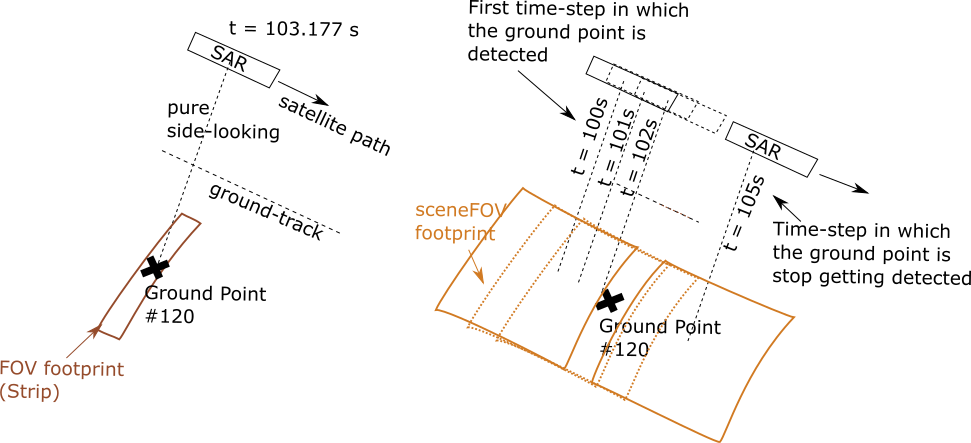
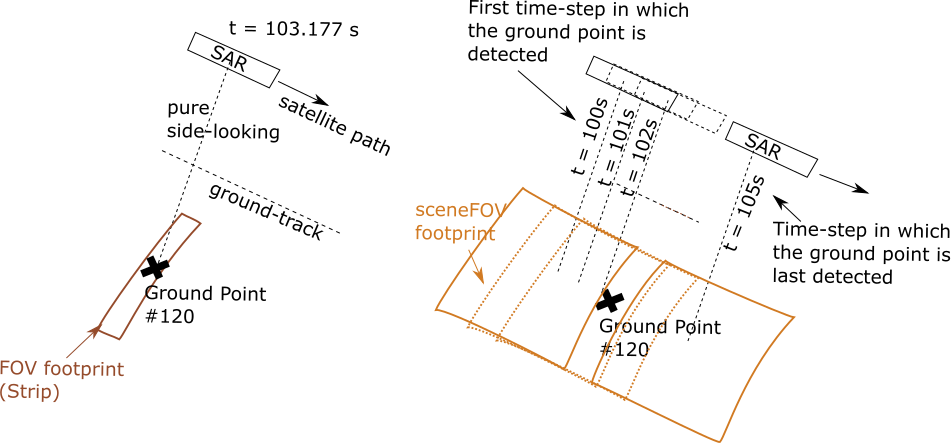
update docs

diff --git a/orbitpy/coveragecalculator.py b/orbitpy/coveragecalculator.py
@@ -92,7 +92,7 @@ def helper_extract_coverage_parameters_of_spacecraft(spc):
     :return: Tuples with instrument-id, mode-id, scene-field-of-view, field-of-regard and pointing_option(s).
     :rtype: list, namedtuple, (str or int, str or int, :class:`instrupy.util.ViewGeometry`, <list,:class:`instrupy.util.ViewGeometry`>, <list,:class:`instrupy.util.Orientation`>)
 
-    .. note::  The field-of-regard parameter and pointing_option parameter is a list in the tuple. 
+    .. note::  The field-of-regard parameter and pointing_option parameter are lists in the tuple. 
 
     """
     _p = namedtuple("spc_cov_params", ["instru_id", "mode_id", "scene_field_of_view", "field_of_regard", "pointing_option"])
@@ -102,7 +102,7 @@ def helper_extract_coverage_parameters_of_spacecraft(spc):
         for instru in spc.instrument: # iterate over each instrument
             instru_id = instru.get_id()
 
-            for mode_id in instru.get_mode_id():# iterate over each mode in the instrument
+            for mode_id in instru.get_mode_id(): # iterate over each mode in the instrument
 
                 scene_field_of_view  = instru.get_scene_field_of_view(mode_id)
                 field_of_regard  = instru.get_field_of_regard(mode_id) 
@@ -116,7 +116,7 @@ def helper_extract_coverage_parameters_of_spacecraft(spc):
     return params
 
 def find_in_cov_params_list(cov_param_list, instru_id=None, mode_id=None):
-    """ For an input instrument-id, mode-id, find the corresponding FOV, FOR and pointing_option(s) in an input list of coverage-parameters 
+    """ For an input instrument-id, mode-id, find the corresponding coverage-parameter in an input list of coverage-parameters 
         (list of tuples of (instru_id, mode_id, field-of-view, field-of-regard, pointing_option)). 
 
     :param cov_param_list: List of tuples of (instrument id, mode id, field-of-view, field-of-regard, pointing_option).
@@ -125,7 +125,7 @@ def find_in_cov_params_list(cov_param_list, instru_id=None, mode_id=None):
     :param instru_id: Instrument identifier. If ``None``, the first tuple in the list of coverage parameters is returned.
     :paramtype instru_id: str (or) int
 
-    :param mode_id: Mode identifier. If ``None``, the first tuple in the list of the instance ``access_file_info`` attribute with the matching instru_id is returned.
+    :param mode_id: Mode identifier. If ``None``, the first tuple in the list of coverage parameters with the matching instru_id is returned.
     :paramtype mode_id: str (or) int
 
     :return: (Single) Tuple of (instrument id, mode id, field-of-view, field-of-regard, pointing-option(s)), such that the instrument-id and 
@@ -151,38 +151,27 @@ def find_in_cov_params_list(cov_param_list, instru_id=None, mode_id=None):
 def filter_mid_interval_access(inp_acc_df=None, inp_acc_fl=None, out_acc_fl=None):
         """ Extract the access times at middle of access intervals. The input can be a path to a file or a dataframe. 
 
-        This function can be used for "correction" of access files for purely side-looking instruments with narrow (along-track) FOV described below:
+        This function can be used for "correction" of access files for purely side-looking instruments with narrow along-track FOV as described below:
 
         In case of purely side-looking instruments with narrow-FOV (eg: SARs executing Stripmap operation mode), the access to a grid-point takes place
-        when the grid-point is seen with no squint angle and the access is relatively instantaneous (i.e. access duration is very small). 
-        The field-of-regard coverage calculations are carried out with the corresponding *sceneFOV* (see :code:`instrupy` package documentation). 
+        when the grid-point is seen with no squint angle and the access is almost instantaneous (i.e. access duration is very small). 
+        The coverage calculations is carried out with the corresponding instrument scene-field-of-view or field-of-regard (built using the scene-filed-of-view) 
+        (see :code:`instrupy` package documentation). 
+        If the instrument FOV is to be used for coverage calculations, a *very very* small time step-size would need to be used which to impractically long computation time.
 
         The access files list rows of access-time, ground-points, and thus independent access opportunities for the instrument
-        when the field-of-regard is used for coverage calculations. 
-        If the generated access files from the field-of-regard coverage calculations (using sceneFOV) of purely side-looking, narrow-FOV instruments are
+        when the scene-field-of-view / field-of-regard is used for coverage calculations. 
+        If the generated access files from the these coverage calculations of a purely side-looking, narrow along-track FOV instrument is
         interpreted in the same manner, it would be erroneous.
 
         Thus the generated access files are then *corrected* to show access only at approximately (to the nearest propagation time-step) 
         the middle of the access interval. 
-        This should be coupled with the required scene-scan-duration (from sceneFOV) to get complete information about the access. 
+        This should be coupled with the required scene-scan-duration (from scene-field-of-view) to get complete information about the access. 
 
-        For example, consider a SAR instrument pointing sideways as shown in the figure below. The along-track FOV is narrow
-        corresponding to narrow strips, and a scene is built from concatenated strips. A SceneFOV is associated with the SAR and is used for access 
-        calculation over the grid point shown in the figure. Say the propagation time-step is 1s as shown in the figure. An access interval between
-        t=100s to t=105s is registered. However as shown the actual access takes place over a small interval of time at t=103.177s. 
+        .. warning:: The correction method is to be used only when the instrument access-duration (determined from the instrument FOV) is smaller 
+                     than the propagation time step (determined from the sceneFOV). 
 
-        An approximation can be applied (i.e. correction is made) that the observation time of the ground point is at the middle of the access
-        interval rounded of to the nearest propagation time as calculated using the SceneFOV, i.e. :math:`t= 100 + ((105-100)/2) % 1 = 103s`. The state 
-        of the spacecraft at :math:`t=103s` and access duration corresponding to the instrument FOV (note: *not* the sceneFOV) (can be determined analytically) 
-        is to be used for the data-metrics calculation.
-
-        .. figure:: sar_access.png
-            :scale: 75 %
-            :align: center
-
-        .. warning:: The correction method is to be used only when the instrument access-duration is smaller than the propagation time step (which is determined from sceneFOV). 
-
-        :ivar inp_acc_df: Dataframe with the access data which needs to be filtered. The rows correspond to pair of 
+        :ivar inp_acc_df: Dataframe with the access data which needs to be filtered. The rows correspond to pairs of 
                           access time and corresponding ground-point index. The columns are to be named as: ``time index``, ``GP index``, ``lat [deg]``, ``lon [deg]``.
                           If ``None``, the ``inp_acc_fl`` input argument must be specified.
         :vartype inp_acc_df: pd.DataFrame or None
@@ -198,7 +187,6 @@ def filter_mid_interval_access(inp_acc_df=None, inp_acc_fl=None, out_acc_fl=None
         :rtype: pd.DataFrame
 
         """
-        print("start correction")
         if inp_acc_fl: # If input file is specified, the data is taken from it. 
             df = pd.read_csv(inp_acc_fl, skiprows=4)            
         else:

diff --git a/docs/orbitpy.coveragecalculator_module.rst b/docs/orbitpy.coveragecalculator_module.rst
@@ -4,12 +4,12 @@
 Description
 ^^^^^^^^^^^^^
 
-Module providing classes and functions to handle coverage related calculations. Factory method pattern is used for initializing the coverage Calculator 
+Module providing classes and functions to handle coverage related calculations. Factory method pattern is used for initializing the coverage calculator 
 object (please see :ref:`constellation_module` for details). The module provides for three types of coverage calculations which are described in detail below.
 Users may additionally define their own coverage calculator classes adherent to the same interface functions 
 (``from_dict(.)``, ``to_dict(.)``, ``execute(.)``, ``__eq__(.)``) as in any of the built in coverage calculator classes.
 
-.. grid_cov_desc::
+.. _grid_cov_desc:
 
 *GRID COVERAGE* 
 ----------------
@@ -22,18 +22,19 @@ The format of the input data file of the spacecraft states is the same as the fo
 ``GridCoverage.execute`` function
 ..................................
 
-The coverage calculation can be executed using the ``execute(.)`` function. The instrument and the mode of the instrument (in the spacecraft) can be specified 
+The coverage calculation can be executed using the ``execute(.)`` function. The instrument (in the spacecraft) and the mode of the instrument can be specified 
 by means of their respective identifiers (in the ``instru_id``, ``mode_id`` input arguments). If not specified, the first instrument in the list of spacecraft's instruments, the first mode of the instrument (see the docs of :class:`instrupy.base.Instrument`)
 in the list of modes of the instrument shall be selected. 
 
 Coverage is calculated for the period over which the input spacecraft propagated states are available. The time-resolution of the coverage calculation is the same as the time resolution at which the spacecraft states are available.
 Note that the sceneFOV of an instrument (which may be the same as the instrument FOV) is used for coverage calculations unless it has been specified to use the field-of-regard (using the ``use_field_of_regard`` input argument).
 
-The ``filter_mid_acc`` input argument can be used to specify if the access times only at the middle of an continuous access-interval. Finally the ``out_file_access`` input argument is 
-used to specify the filepath (with filename) at which the results are to be written.
+The ``filter_mid_acc`` input argument can be used to specify if the access times only at the middle of an continuous access-interval. 
 E.g. If the access takes place at time-indices 450, 451, 452, 453, 454, and if the ``filter_mid_acc`` flag is specified to be true, then only the access time-index = 452 is written
 in the results.
 
+Finally the ``out_file_access`` input argument is 
+used to specify the filepath (with filename) at which the results are to be written.
 A ``CoverageOutputInfo`` object containing meta-info about the results is returned at the end of execution of the function.
 
 Output data file format
@@ -43,13 +44,13 @@ The output of executing the coverage calculator is a csv data file containing th
 
 *  The first row contains the coverage calculation type.
 *  The second row containing the mission epoch in Julian Day UT1. The time (index) in the state data is referenced to this epoch.
-*  The third row contains the time-step size in seconds. 
+*  The third row contains the time step-size in seconds. 
 *  The fourth row contains the mission duration in days.
 *  The fifth row contains the columns headers and the sixth row onwards contains the corresponding data. 
 
 Note that time associated with a row is:  ``time = epoch (in JDUT1) + time-index * time-step-size (in secs) * (1/86400)`` 
 
-Description of the coverage data is given below:
+Description of the columns headers and data is given below:
 
 .. csv-table:: Coverage data description
       :header: Column, Data type, Units, Description
@@ -60,13 +61,13 @@ Description of the coverage data is given below:
       lat [deg], float, degrees, Latitude corresponding to the GP index.
       lon [deg], float, degrees, Longitude corresponding to the GP index.
 
-.. pointing_opt_cov_desc::
+.. _pointing_opt_cov_desc:
 
 *POINTING OPTIONS COVERAGE*
 ----------------------------
 
 This type of coverage calculations is possible for an instrument (on a spacecraft) with a set of pointing-options.
-A pointing-option refers to orientation of the instrument in the NADIR_POINTING frame. The set of pointing-options 
+A pointing-option refers to orientation of the instrument in the nadir-pointing frame. The set of pointing-options 
 represent all the possible orientations of the instrument due to maneuverability of the instrument and/or satellite-bus.
 The ground-locations for each pointing-option, at each propagation time-step is calculated as the coverage result.
 
@@ -95,7 +96,7 @@ The output of executing the coverage calculator is a csv data file containing th
 
 Note that time associated with a row is:  ``time = epoch (in JDUT1) + time-index * time-step-size (in secs) * (1/86400)`` 
 
-Description of the coverage data is given below:
+Description of the columns headers and data is given below:
 
 .. csv-table:: Coverage data description
       :header: Column, Data type, Units, Description
@@ -116,7 +117,8 @@ This type of coverage calculations is similar to the :ref:`grid_cov_desc`, excep
 ``PointingOptionsWithGridCoverage.execute`` function
 .......................................................
 
-The function behavior is similar to the ``execute`` function of the ``GridCoverage`` object. Coverage calculations are performed for a specific instrument and mode. 
+The function behavior is similar to the ``execute`` function of the ``GridCoverage`` object. Coverage calculations are performed for a specific instrument and mode,
+and the results are written out for separately for each pointing-option of the instrument/mode. 
 A key difference is that only the scene-field-of-view of the instrument is considered (no scope to use field-of-regard) in the coverage calculation. 
 
 Output data file format
@@ -132,7 +134,7 @@ The output of executing the coverage calculator is a csv data file containing th
 
 Note that time associated with a row is:  ``time = epoch (in JDUT1) + time-index * time-step-size (in secs) * (1/86400)`` 
 
-Description of the coverage data is given below:
+Description of the columns headers and data is given below:
 
 .. csv-table:: Coverage data description
       :header: Column, Data type, Units, Description
@@ -144,26 +146,50 @@ Description of the coverage data is given below:
       lat [deg], float, degrees, Latitude corresponding to the GP index.
       lon [deg], float, degrees, Longitude corresponding to the GP index.
 
-Helper functions
--------------------
+      
+*Correction* of access files for purely side-looking instruments with narrow along-track FOV
+-----------------------------------------------------------------------------------------------
 
-``helper_extract_coverage_parameters_of_spacecraft``
-.......................................................
+In case of purely side-looking instruments with narrow-FOV (eg: SARs executing Stripmap operation mode), the access to a grid-point takes place
+when the grid-point is seen with no squint angle and the access is almost instantaneous (i.e. access duration is very small). 
+The coverage calculations is carried out with the corresponding instrument scene-field-of-view or field-of-regard (built using the scene-field-of-view) 
+(see :code:`instrupy` package documentation). 
+If the instrument FOV is to be used for coverage calculations, a *very very* small time step-size would need to be used which to impractically leads to long computation time.
 
-``find_in_cov_params_list``
-.............................
+The access files in general list rows of access-time, ground-points, and thus independent access opportunities for the instrument
+when the scene-field-of-view / field-of-regard is used for coverage calculations. 
+If the generated access files from the these coverage calculations of a purely side-looking, narrow along-track FOV instrument is
+interpreted in the same manner, it would be erroneous.
 
-``filter_mid_interval_access``
-.................................
+Thus the generated access files are then *corrected* to show access only at approximately (to the nearest propagation time-step) 
+the middle of the access interval. 
+This should be coupled with the required scene-scan-duration (from scene-field-of-view) to get complete information about the access. 
+
+For example, consider a SAR instrument pointing sideways as shown in the figure below. The along-track FOV is narrow
+corresponding to narrow strips, and a scene is built from concatenated strips. A SceneFOV is associated with the SAR and is used for access 
+calculation over the grid point shown in the figure. Say the propagation time-step is 1s as shown in the figure. An access interval between
+t=100s to t=105s is registered. However as shown the actual access takes place over a small interval of time at t=103.177s. 
+
+An approximation can be applied (i.e. correction is made) that the observation time of the ground point is at the middle of the access
+interval as calculated using the SceneFOV, rounded of to the nearest propagation time, i.e. :math:`t= 100 + ((105-100)/2) % 1 = 103s`. The state 
+of the spacecraft at :math:`t=103s` and access duration corresponding to the instrument FOV (note: *not* the sceneFOV) (can be determined analytically) 
+is to be used for the data-metrics calculation.
+
+.. figure:: sar_access.png
+      :scale: 75 %
+      :align: center
+
+.. warning:: The correction method is to be used only when the instrument access-duration (determined from the instrument FOV) is smaller 
+            than the propagation time step (determined from the sceneFOV).
 
 Examples
 ^^^^^^^^^
 
-1. *GRID COVERAGE example*
+1. *GRID COVERAGE example 1*
    
-   The following snippet of code initializes and executes coverage calculation for a spacecraft in an equatorial orbit, and a grid along the
+   The following snippet of code initializes and executes coverage calculation for a spacecraft in an equatorial orbit, and a grid about the
    equator. The spacecraft is aligned to the nadir-pointing frame (:class:`instrupy.util.ReferenceFrame.NADIR_POINTING`) and the instrument in turn is
-   aligned to the spacecraft body frame (:class:`instrupy.util.ReferenceFrame.SC_BODY_FIXED`). The access data the grid-points accessed at every time tick
+   aligned to the spacecraft body frame (:class:`instrupy.util.ReferenceFrame.SC_BODY_FIXED`). The access data shows the grid-points accessed at every time tick
    of the mission. The interval between the time-ticks is equal to the propagation step-size which here is 2 seconds.
 
    .. code-block:: python
@@ -232,7 +258,7 @@ Examples
          ...
    
    In below snippet the ``filter_mid_acc`` flag is set to ``True`` instead of ``False``. Observe the difference in the output access data between the above result
-   and the below result. In the below result only access at the middle of the access time-interval is shown. E.g. The access to the GP 4303 is from time-index = 0 to 10 
+   and the below result. In the below result only access at the middle of the access time-interval is shown. E.g. The very-first access to the GP 4303 is from time-index = 0 to 10 
    and the mid-interval access is at time-index = 5.
 
    .. code-block:: python
@@ -252,12 +278,12 @@ Examples
       51,4306,0.0,82.0
       ...
 
-2. *GRID COVERAGE example*
+2. *GRID COVERAGE example 2*
    
-   In the below snippet, the satellite is equipped with two instruments with multiple modes. The second instrument, and second mode is selected for
+   In the below snippet, the satellite is equipped with two instruments. The second instrument, and second mode is selected for
    coverage calculation. The ``use_field_of_regard`` flag is set true to indicate that the field-of-regard should be considered for the coverage calculation.
    Note that in absence of the ``orientation`` specifications for the ``SpacecraftBus`` object, the default is assumed to be aligned to the nadir-pointing frame.
-   In case of the instrument, the default orientation is aligned to the spacecraft bus.
+   In case of the instrument, the default orientation is alignment to the spacecraft bus.
 
    .. code-block:: python
 
@@ -368,7 +394,7 @@ Examples
 
 4. *POINTING OPTIONS WITH GRID COVERAGE example*
    
-      In the below snippet, the satellite is equipped with two instruments with multiple modes. The second instrument with the pointing-options specifications is chosen for
+      In the below snippet, the satellite is equipped with two instruments. The second instrument with the pointing-options specifications is chosen for
       coverage calculations.  The ``filter_mid_acc`` flag is set to ``True`` to have only the access-times at the middle of access-intervals. The output csv file
       shows the grid-points accessed (if any) for each of the pointing-options at every time-step.
    

diff --git a/docs/orbitpy.propagator_module.rst b/docs/orbitpy.propagator_module.rst
@@ -24,7 +24,7 @@ The output of executing the propagator is a csv data file containing the satelli
 
 Note that time associated with a row is:  ``time = epoch (in JDUT1) + time-index * time-step-size (in secs) * (1/86400)`` 
 
-Description of the data (in either ``CARTESIAN_EARTH_CENTERED_INERTIAL`` or ``KEPLERIAN_EARTH_CENTERED_INERTIAL`` reference frame) is given below:
+Description of the column headers and data (in either ``CARTESIAN_EARTH_CENTERED_INERTIAL`` or ``KEPLERIAN_EARTH_CENTERED_INERTIAL`` reference frame) is given below:
 
 .. csv-table:: CARTESIAN_EARTH_CENTERED_INERTIAL state data description
    :header: Column, Data type, Units, Description
